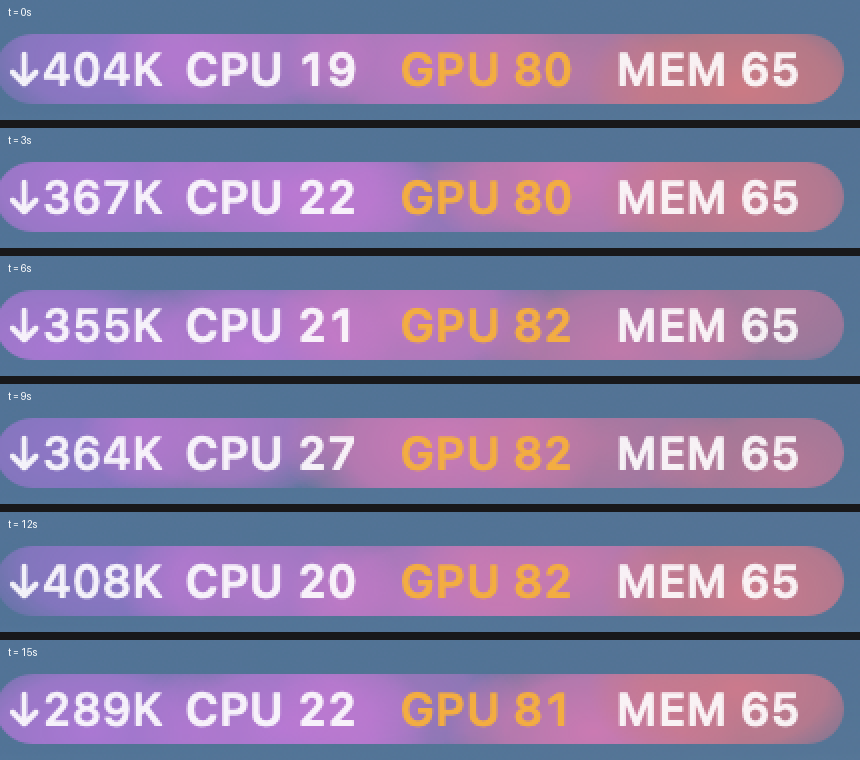
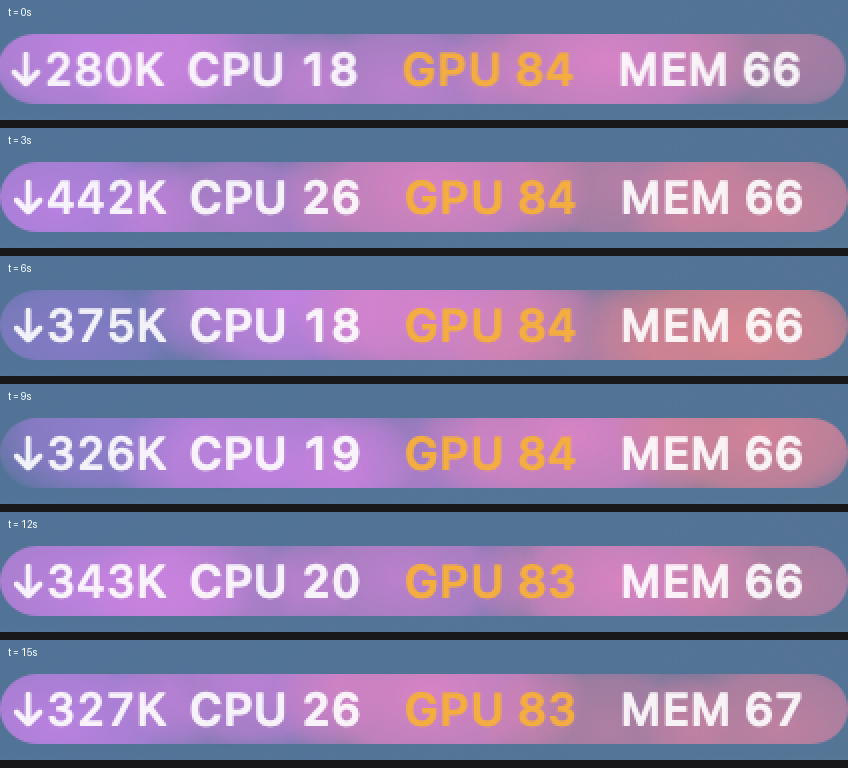
漫散射：按要求提亮（brightness 0.85 → 0.90）
只动颜色，结构指标逐项不变（peakTimes 17/24、swing 0.342、jumpPeak 23.5）。

扫描后停在 0.90 的原因是**文字对比度**而不是审美：动效铺在白字底下，
底色一亮白字就糊。按 WCAG 相对亮度实测：
  0.85 → 中位 V77% → 白字对比度 3.50:1
  0.90 → 中位 V81% → 3.12:1   ← 选定（守住 3:1）
  0.93 → 中位 V83% → 2.96:1   ← 掉破 3:1
  0.98 → 中位 V88% → 2.60:1
实机装了 0.85/0.90/0.95 三档各截一帧对比后确认 0.90 明显更亮、文字仍清晰，
0.95 开始发白。saturation 0.46 → 0.45（提亮会偏淡，略降饱和保持粉彩）。

平均合成色 H302 S38 V70 → H302 S37 V74，最暗/中位/最亮 V 55/77/85 → 59/81/90。
连拍拼图已按新亮度重拍。README 补上对比度上限表。

diff --git a/Sources/SysPulse/MenuBarImage.swift b/Sources/SysPulse/MenuBarImage.swift
@@ -350,7 +350,7 @@ enum MenuBarImage {
             // 全程最小 alpha 0.00 → 0.49，相邻色相跳变峰值 53.8° → 24°。
             let stops: [(CGFloat, CGFloat)] = [(0.00, 1.000), (0.60, 0.800), (0.85, 0.400), (1.00, 0.000)]
             let colors = stops.map {
-                NSColor(hue: hue, saturation: 0.46, brightness: 0.85, alpha: $0.1 * peakAlpha)
+                NSColor(hue: hue, saturation: 0.45, brightness: 0.90, alpha: $0.1 * peakAlpha)
             }
             let locations = stops.map { $0.0 }
 

diff --git a/README.md b/README.md
@@ -822,11 +822,25 @@ cd ~/Documents/DeepSeek/SysPulse
     **RGB(47,78,112) = H213° S58% V44%**（壁纸透过毛玻璃的结果，换壁纸就会变；
     早先同一处量到过 RGB(80,115,150)）。粉彩叠在这种蓝底上**低浓度永远翻不过去**，
     所以当把覆盖做得更实（平均 alpha 0.82）时，必须同步**把光斑本身的
-    `saturation` 降到 0.46、`brightness` 降到 0.85**，才能让合成结果落在同一观感：
+    `saturation` 降到 **0.45**、`brightness` 也要往下压**，才能让合成结果落在同一观感：
     | | 平均合成色 | 最暗 / 中位 / 最亮 V |
     | --- | --- | --- |
     | 旧版（真机截图） | H318° S34% V72% | — |
-    | 修复后（离屏同口径） | H302° S38% V70% | 55 / 77 / 85%（旧版 59 / 75 / 85%） |
+    | 修复后（离屏同口径，`brightness 0.85`） | H302° S38% V70% | 55 / 77 / 85%（旧版 59 / 75 / 85%） |
+    | **当前（`brightness 0.90`，按"亮一点"调过）** | H302° S37% V74% | 59 / 81 / 90% |
+  - ⚠ **提亮有个硬上限：白字的对比度。** 动效铺在文字**底下**，底色一亮，
+    白字（`.labelColor`）就糊。按 WCAG 的相对亮度算过一遍：
+    | 光斑 `brightness` | 中位合成 V | 白字对比度 |
+    | --- | --- | --- |
+    | `0.85`（修复时的值） | 77% | **3.50 : 1** |
+    | **`0.90`（当前，"亮一点"）** | **81%** | **3.12 : 1** |
+    | `0.93` | 83% | 2.96 : 1 ← 掉破 3:1 |
+    | `0.95` | 85% | 2.79 : 1 |
+    | `0.98` | 88% | 2.60 : 1 |
+    菜单栏 11.5pt 半粗体算"正文"，WCAG AA 要 4.5:1 —— 也就是说**只要开了动效就已经在
+    3:1 上下**，这是"彩色底 + 白字"的固有限制，不是参数没调好。
+    所以提亮停在 `0.90`（守住 3:1）。**想再亮就得把文字改成深色**，
+    那是另一个改动（`Segment.color` 与 `StatusItemController.tint` 都要跟着走），没做。
     实机复测：条内从**左端 H265°（淡紫）**到**右端 H353°（淡粉）**，整条 206pt 铺满无断口。
   - ⚠ **配色按小米 HyperOS 启动图实测校准**（2026-09-30，用户给的参考）。
     那张图的 8×8 网格实测：**明度 90~100%（近乎全白）、饱和度仅 7~18%**，

diff --git a/DEVLOG-漫散射修复-2026-09-30.md b/DEVLOG-漫散射修复-2026-09-30.md
@@ -189,3 +189,31 @@ gradient.draw(fromCenter: .zero, radius: 0, toCenter: .zero, radius: 1, options:
    所以扫描时两栏一起看，且**颜色要对齐"真机截图的实测值"，不是对齐参数**。
 5. **插桩放仓库外。** 这一轮的量测台、扫描台全在 `/tmp`，`git status` 全程只有
    一个 `MenuBarImage.swift` 的改动，没有再污染工作区。
+
+---
+
+## 5. 追加：按要求把颜色提亮（同日稍后）
+
+用户："将颜色做的亮一点。"
+
+只动颜色，结构指标一个没变（`peakTimes 17/24`、`swing 0.342`、`jumpPeak 23.5` —— 
+与提亮前逐项相同，因为脉动只跟 alpha/半径有关）。扫描结果：
+
+| 光斑 `brightness` | 平均合成 V | 中位 V | 最亮 V | 白字对比度 |
+| --- | --- | --- | --- | --- |
+| `0.85`（修复时的值） | 70% | 77% | 84% | 3.50 : 1 |
+| **`0.90`（选定）** | **74%** | **81%** | **90%** | **3.12 : 1** |
+| `0.95` | 78% | 85% | 94% | 2.79 : 1 |
+| `0.98` | 80% | 88% | 97% | 2.60 : 1 |
+
+**卡在 `0.90` 的原因是文字对比度，不是审美**：动效铺在白字底下，底色一亮白字就糊。
+按 WCAG 相对亮度算，`0.93` 就已经掉破 3:1（2.96），`0.98` 只剩 2.60。
+实机装了 `0.85 / 0.90 / 0.95` 三档各截一帧对比后确认：`0.90` 明显更亮且文字仍清晰，
+`0.95` 开始发白。同时把 `saturation` 从 `0.46` 微调到 `0.45`（提亮会让观感偏"淡"，略降饱和保持粉彩）。
+
+⚠ 顺带得到一条通用结论：**只要开了背景动效，白字就已经在 3:1 上下**
+（菜单栏 11.5pt 半粗体按"正文"算，WCAG AA 要 4.5:1）。这是"彩色底 + 白字"的固有限制。
+想再亮只能把文字改深色，那要连带改 `Segment.color` 与 `StatusItemController.tint`。
+
+`Resources/diffuse-连拍-2026-09-30.png` 已按新亮度重新连拍（顺带能看出
+"亮的那一段"在 t=0 偏左、t=15 偏右，确实不是整条一起变）。
